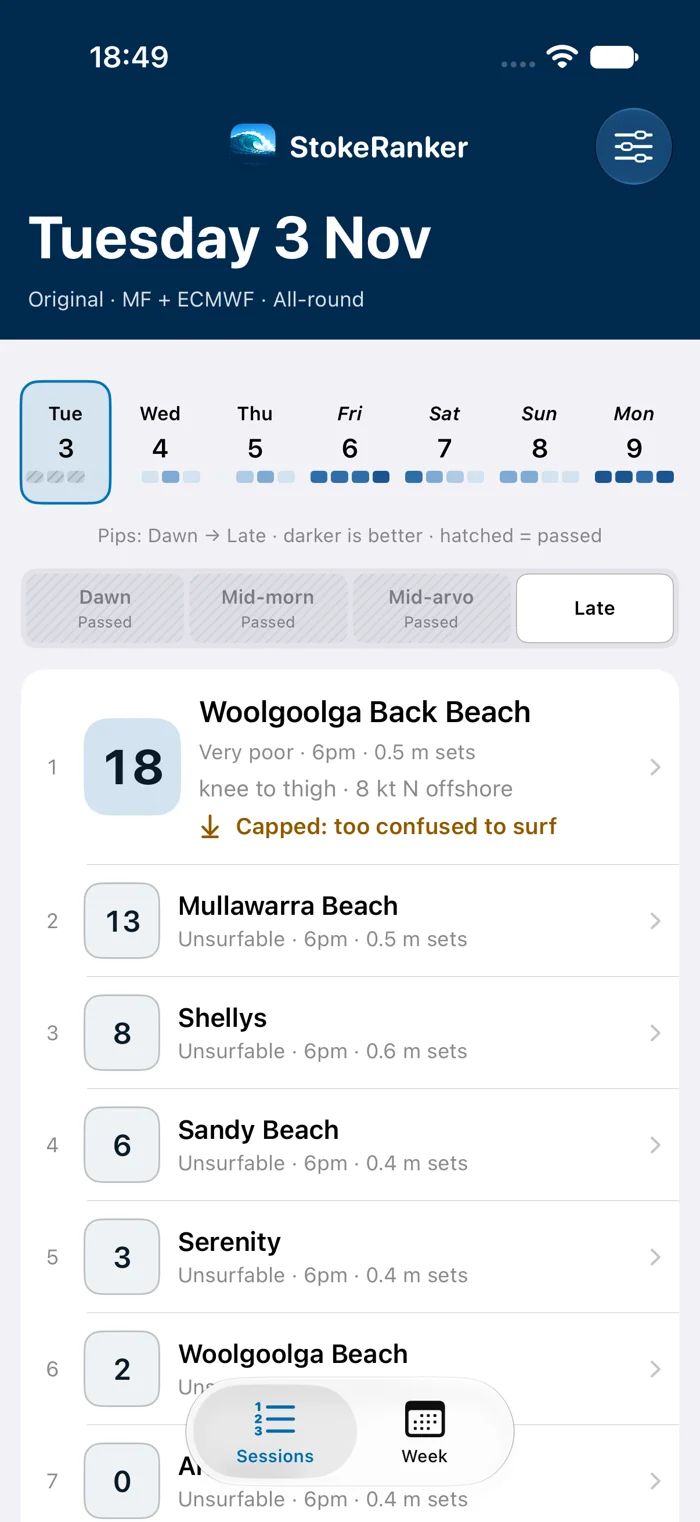
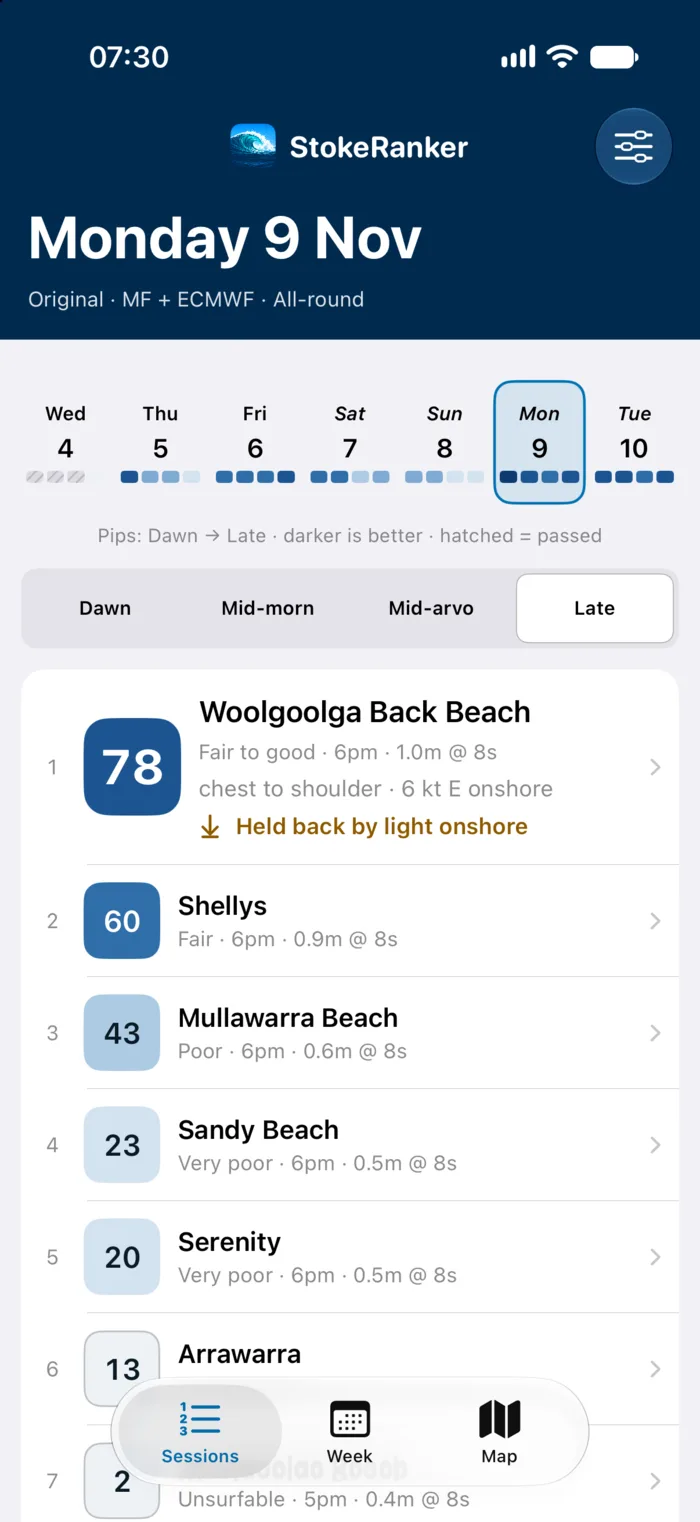
New product shots from a good-surf day; coverage starts north and grows
Replace the hero and iPad shots, which showed "very poor" everywhere, with
Monday 9 Nov's late session (78 / 60 / 43). Add the week board, the
regional map, a zoomed map with wind and swell cards, and a break page.
Say coverage starts with eight northern-beaches breaks and will spread
as the model improves.

diff --git a/assets/css/main.css b/assets/css/main.css
@@ -1,6 +1,6 @@
-:root{--paper:#f6f3ec;--ink:#082e49;--blue:#0072b2;--muted:#4d6574;--line:#cad3d3;--wash:#e0ebed;--white:#fff;--sans:-apple-system,BlinkMacSystemFont,"Segoe UI",sans-serif;--serif:Georgia,"Times New Roman",serif}*{box-sizing:border-box}html{scroll-behavior:auto;scroll-padding-top:2rem}body{margin:0;background:var(--paper);color:var(--ink);font:1.0625rem/1.65 var(--sans);-webkit-font-smoothing:antialiased}img{display:block;max-width:100%;height:auto}figure{margin:0}a{color:var(--blue);text-underline-offset:.2em;text-decoration-thickness:1px}a:hover{text-decoration-thickness:2px}a:focus-visible{outline:3px solid var(--blue);outline-offset:5px;border-radius:2px}h1,h2,h3{line-height:1.12;margin:0 0 1.2rem;font-weight:400;text-wrap:balance}h1,h2{font-family:var(--serif);letter-spacing:-.035em}h2{font-size:clamp(2.1rem,4vw,3.2rem)}h3{font-size:1.45rem;font-weight:650;letter-spacing:-.025em;line-height:1.3}p{margin:0 0 1.3rem}nav{display:flex;align-items:center;gap:1.8rem;flex-wrap:wrap}nav a{display:inline-flex;align-items:center;min-height:44px;color:var(--ink);text-decoration:none;font-size:.94rem;font-weight:550}.wrap{max-width:1208px;padding-inline:24px;margin-inline:auto}.skip{position:absolute;left:1rem;top:-100px;padding:.7rem 1rem;background:var(--ink);color:white;z-index:10}.skip:focus{top:1rem}.site-header{border-bottom:1px solid var(--line)}.header-inner{display:flex;justify-content:space-between;align-items:center;gap:24px;min-height:96px}.brand{display:inline-flex;align-items:center;gap:12px;text-decoration:none;color:var(--ink);font-weight:750;font-size:1.35rem;letter-spacing:-.04em;white-space:nowrap}.brand img{border-radius:10px;width:42px;height:42px}.nav-cta{border-bottom:1px solid var(--ink)}.hero{display:grid;grid-template-columns:1.15fr .85fr;align-items:center;gap:64px;padding-block:64px 58px}.eyebrow{font-size:.75rem;font-weight:750;letter-spacing:.15em;line-height:1.6;margin-bottom:1.5rem}.hero h1{font-size:clamp(3.4rem,6.7vw,5.9rem);max-width:10ch;line-height:.99;margin-bottom:1.8rem}.hero h1 em{color:var(--blue);font-weight:400}.lede{font-size:1.2rem;line-height:1.7;color:var(--muted);max-width:48ch}.actions{display:flex;align-items:center;gap:24px;flex-wrap:wrap;margin:2rem 0 1.3rem}.button{display:inline-flex;justify-content:center;align-items:center;min-height:52px;gap:12px;padding:.85rem 1.35rem;background:var(--blue);border:1px solid transparent;color:white;font-size:.95rem;line-height:1.5;font-weight:650;text-decoration:none;border-radius:4px}.button:hover{background:var(--ink);text-decoration:none}.text-link{font-size:.93rem;font-weight:600}.small-note{font-size:.83rem;line-height:1.7;color:var(--muted)}.hero-visual{position:relative;display:flex;flex-direction:column;align-items:center;justify-content:center;padding:20px 20px 0;isolation:isolate}.hero-visual:before{content:"";position:absolute;inset:45px -10px 60px;background:var(--wash);border-radius:48% 48% 4px 4px;z-index:-1}.hero-visual img{max-height:570px;width:auto;border:6px solid var(--ink);border-radius:30px;box-shadow:0 20px 44px #082e491c;object-fit:contain}.hero-visual figcaption{font-size:.8rem;margin-top:24px;color:var(--muted)}.coastline{display:flex;justify-content:space-between;gap:16px;border-block:1px solid var(--line);padding-block:18px;color:var(--muted);font-size:.8rem;letter-spacing:.04em}.section{padding-block:88px}.section-heading{max-width:720px;margin-bottom:42px}.section-heading>p:not(.eyebrow){max-width:60ch;color:var(--muted)}.feature-grid{display:grid;grid-template-columns:1fr 1fr;gap:36px 72px}.feature{border-top:1px solid var(--line);padding-top:24px}.feature-number{display:block;font-size:.75rem;font-weight:700;letter-spacing:.1em;color:var(--blue);margin-bottom:18px}.feature p{color:var(--muted);max-width:54ch}.showcase{background:var(--wash)}.wide-shot img{width:100%;border-radius:12px;border:1px solid var(--line);box-shadow:0 12px 35px #082e4910}.wide-shot figcaption{max-width:78ch;margin:20px auto 0;text-align:center;color:var(--muted);font-size:.85rem}.story-grid{display:grid;grid-template-columns:1fr 1fr;gap:100px}.story-grid p:not(.eyebrow){color:var(--muted)}.steps{list-style:none;counter-reset:step;margin:0;padding:0}.steps li{counter-increment:step;position:relative;border-top:1px solid var(--line);padding:24px 0 12px 52px}.steps li:before{content:counter(step,decimal-leading-zero);position:absolute;left:0;top:24px;font-size:.8rem;font-weight:700;color:var(--blue)}.steps strong{font-size:1.15rem}.steps p{font-size:.97rem;margin-top:8px}.access-panel{display:grid;grid-template-columns:1.3fr 1fr;gap:72px;align-items:center;padding:56px;background:var(--ink);color:white;border-radius:6px}.access-panel>div:last-child{justify-self:end}.access-panel h2{max-width:14ch}.access-panel p:not(.eyebrow){color:#d8e5ed}.access-panel a{color:white}.access-panel .button{background:#d9ecf8;color:var(--ink);margin-bottom:20px}.access-panel .button:hover{background:white}.access-panel a:focus-visible{outline-color:#56b4e9}.access-panel .small-note{margin-bottom:12px}.site-footer{border-top:1px solid var(--line);padding-block:30px}.footer-inner{display:flex;align-items:center;justify-content:space-between;gap:24px}.footer-inner p{margin:0;font-size:.8rem;color:var(--muted)}.footer-inner nav{gap:24px}.footer-inner nav a{font-size:.8rem}.page-heading{padding-block:72px 40px;max-width:808px}.page-heading h1{font-size:clamp(2.8rem,6vw,4.5rem)}.page-heading .eyebrow{color:var(--blue)}.updated{font-size:.85rem;color:var(--muted)}.prose{max-width:808px;padding-bottom:88px;overflow-wrap:anywhere}.prose h2{font-family:var(--sans);font-weight:650;font-size:1.5rem;letter-spacing:-.025em;line-height:1.35;margin:2.6rem 0 1rem}.prose h3{font-size:1.2rem;margin-top:2rem}.prose p,.prose li{color:#334e60}.prose li{margin-bottom:.5rem}.prose ul,.prose ol{padding-left:1.5rem}.prose a{font-weight:550}.page-cta{margin-top:3rem}
+:root{--paper:#f6f3ec;--ink:#082e49;--blue:#0072b2;--muted:#4d6574;--line:#cad3d3;--wash:#e0ebed;--white:#fff;--sans:-apple-system,BlinkMacSystemFont,"Segoe UI",sans-serif;--serif:Georgia,"Times New Roman",serif}*{box-sizing:border-box}html{scroll-behavior:auto;scroll-padding-top:2rem}body{margin:0;background:var(--paper);color:var(--ink);font:1.0625rem/1.65 var(--sans);-webkit-font-smoothing:antialiased}img{display:block;max-width:100%;height:auto}figure{margin:0}a{color:var(--blue);text-underline-offset:.2em;text-decoration-thickness:1px}a:hover{text-decoration-thickness:2px}a:focus-visible{outline:3px solid var(--blue);outline-offset:5px;border-radius:2px}h1,h2,h3{line-height:1.12;margin:0 0 1.2rem;font-weight:400;text-wrap:balance}h1,h2{font-family:var(--serif);letter-spacing:-.035em}h2{font-size:clamp(2.1rem,4vw,3.2rem)}h3{font-size:1.45rem;font-weight:650;letter-spacing:-.025em;line-height:1.3}p{margin:0 0 1.3rem}nav{display:flex;align-items:center;gap:1.8rem;flex-wrap:wrap}nav a{display:inline-flex;align-items:center;min-height:44px;color:var(--ink);text-decoration:none;font-size:.94rem;font-weight:550}.wrap{max-width:1208px;padding-inline:24px;margin-inline:auto}.skip{position:absolute;left:1rem;top:-100px;padding:.7rem 1rem;background:var(--ink);color:white;z-index:10}.skip:focus{top:1rem}.site-header{border-bottom:1px solid var(--line)}.header-inner{display:flex;justify-content:space-between;align-items:center;gap:24px;min-height:96px}.brand{display:inline-flex;align-items:center;gap:12px;text-decoration:none;color:var(--ink);font-weight:750;font-size:1.35rem;letter-spacing:-.04em;white-space:nowrap}.brand img{border-radius:10px;width:42px;height:42px}.nav-cta{border-bottom:1px solid var(--ink)}.hero{display:grid;grid-template-columns:1.15fr .85fr;align-items:center;gap:64px;padding-block:64px 58px}.eyebrow{font-size:.75rem;font-weight:750;letter-spacing:.15em;line-height:1.6;margin-bottom:1.5rem}.hero h1{font-size:clamp(3.4rem,6.7vw,5.9rem);max-width:10ch;line-height:.99;margin-bottom:1.8rem}.hero h1 em{color:var(--blue);font-weight:400}.lede{font-size:1.2rem;line-height:1.7;color:var(--muted);max-width:48ch}.actions{display:flex;align-items:center;gap:24px;flex-wrap:wrap;margin:2rem 0 1.3rem}.button{display:inline-flex;justify-content:center;align-items:center;min-height:52px;gap:12px;padding:.85rem 1.35rem;background:var(--blue);border:1px solid transparent;color:white;font-size:.95rem;line-height:1.5;font-weight:650;text-decoration:none;border-radius:4px}.button:hover{background:var(--ink);text-decoration:none}.text-link{font-size:.93rem;font-weight:600}.small-note{font-size:.83rem;line-height:1.7;color:var(--muted)}.hero-visual{position:relative;display:flex;flex-direction:column;align-items:center;justify-content:center;padding:20px 20px 0;isolation:isolate}.hero-visual:before{content:"";position:absolute;inset:45px -10px 60px;background:var(--wash);border-radius:48% 48% 4px 4px;z-index:-1}.hero-visual img{max-height:570px;width:auto;border:6px solid var(--ink);border-radius:30px;box-shadow:0 20px 44px #082e491c;object-fit:contain}.hero-visual figcaption{font-size:.8rem;margin-top:24px;color:var(--muted)}.coastline{display:flex;justify-content:space-between;gap:16px;border-block:1px solid var(--line);padding-block:18px;color:var(--muted);font-size:.8rem;letter-spacing:.04em}.section{padding-block:88px}.section-heading{max-width:720px;margin-bottom:42px}.section-heading>p:not(.eyebrow){max-width:60ch;color:var(--muted)}.feature-grid{display:grid;grid-template-columns:1fr 1fr;gap:36px 72px}.feature{border-top:1px solid var(--line);padding-top:24px}.feature-number{display:block;font-size:.75rem;font-weight:700;letter-spacing:.1em;color:var(--blue);margin-bottom:18px}.feature p{color:var(--muted);max-width:54ch}.showcase{background:var(--wash)}.wide-shot img{width:100%;border-radius:12px;border:1px solid var(--line);box-shadow:0 12px 35px #082e4910}.wide-shot figcaption{max-width:78ch;margin:20px auto 0;text-align:center;color:var(--muted);font-size:.85rem}.story-grid{display:grid;grid-template-columns:1fr 1fr;gap:100px}.story-grid p:not(.eyebrow){color:var(--muted)}.steps{list-style:none;counter-reset:step;margin:0;padding:0}.steps li{counter-increment:step;position:relative;border-top:1px solid var(--line);padding:24px 0 12px 52px}.steps li:before{content:counter(step,decimal-leading-zero);position:absolute;left:0;top:24px;font-size:.8rem;font-weight:700;color:var(--blue)}.steps strong{font-size:1.15rem}.steps p{font-size:.97rem;margin-top:8px}.access-panel{display:grid;grid-template-columns:1.3fr 1fr;gap:72px;align-items:center;padding:56px;background:var(--ink);color:white;border-radius:6px}.access-panel>div:last-child{justify-self:end}.access-panel h2{max-width:14ch}.access-panel p:not(.eyebrow){color:#d8e5ed}.access-panel a{color:white}.access-panel .button{background:#d9ecf8;color:var(--ink);margin-bottom:20px}.access-panel .button:hover{background:white}.access-panel a:focus-visible{outline-color:#56b4e9}.access-panel .small-note{margin-bottom:12px}.two-up{display:grid;grid-template-columns:.36fr 1fr;gap:48px;align-items:center}.two-up figcaption{margin-top:16px;text-align:center;color:var(--muted);font-size:.85rem}.phone-shot img{margin:auto;border:6px solid var(--ink);border-radius:30px;box-shadow:0 20px 44px #082e491c}.site-footer{border-top:1px solid var(--line);padding-block:30px}.footer-inner{display:flex;align-items:center;justify-content:space-between;gap:24px}.footer-inner p{margin:0;font-size:.8rem;color:var(--muted)}.footer-inner nav{gap:24px}.footer-inner nav a{font-size:.8rem}.page-heading{padding-block:72px 40px;max-width:808px}.page-heading h1{font-size:clamp(2.8rem,6vw,4.5rem)}.page-heading .eyebrow{color:var(--blue)}.updated{font-size:.85rem;color:var(--muted)}.prose{max-width:808px;padding-bottom:88px;overflow-wrap:anywhere}.prose h2{font-family:var(--sans);font-weight:650;font-size:1.5rem;letter-spacing:-.025em;line-height:1.35;margin:2.6rem 0 1rem}.prose h3{font-size:1.2rem;margin-top:2rem}.prose p,.prose li{color:#334e60}.prose li{margin-bottom:.5rem}.prose ul,.prose ol{padding-left:1.5rem}.prose a{font-weight:550}.page-cta{margin-top:3rem}
 @media(min-width:1400px){.hero{padding-block:80px}.hero-visual img{max-height:610px}}
 @media(max-width:900px){.hero{gap:32px}.hero-visual{padding-inline:10px}.story-grid{gap:48px}.access-panel{gap:32px;padding:36px}.header-inner{gap:16px}nav{gap:20px}.feature-grid{gap:32px}}
-@media(max-width:760px){.header-inner{flex-wrap:wrap;padding-block:18px;gap:12px}.header-inner nav{width:100%;justify-content:space-between;gap:8px}.hero{grid-template-columns:1fr;gap:30px;padding-block:44px}.hero h1{font-size:clamp(3.4rem,11vw,5rem);max-width:11ch}.hero-copy{max-width:560px}.hero-visual{padding-top:24px;max-width:420px;width:100%;margin:auto}.hero-visual img{max-height:480px;max-width:90%;border-width:5px}.hero-visual:before{inset:45px 0 60px}.coastline{flex-wrap:wrap;justify-content:flex-start;gap:8px 24px;font-size:.72rem}.coastline span:first-child{width:100%}.section{padding-block:56px}.section-heading{margin-bottom:28px}.feature-grid,.story-grid,.access-panel{grid-template-columns:1fr;gap:28px}.feature{padding-top:20px}.access-panel{padding:32px 24px}.access-panel>div:last-child{justify-self:start}.access-panel h2{max-width:17ch}.footer-inner{align-items:flex-start;flex-direction:column;gap:12px}.page-heading{padding-top:44px}.page-heading .eyebrow{overflow-wrap:anywhere}.prose{padding-bottom:56px}}
+@media(max-width:760px){.two-up{grid-template-columns:1fr;gap:36px}.phone-shot img{max-width:300px}.header-inner{flex-wrap:wrap;padding-block:18px;gap:12px}.header-inner nav{width:100%;justify-content:space-between;gap:8px}.hero{grid-template-columns:1fr;gap:30px;padding-block:44px}.hero h1{font-size:clamp(3.4rem,11vw,5rem);max-width:11ch}.hero-copy{max-width:560px}.hero-visual{padding-top:24px;max-width:420px;width:100%;margin:auto}.hero-visual img{max-height:480px;max-width:90%;border-width:5px}.hero-visual:before{inset:45px 0 60px}.coastline{flex-wrap:wrap;justify-content:flex-start;gap:8px 24px;font-size:.72rem}.coastline span:first-child{width:100%}.section{padding-block:56px}.section-heading{margin-bottom:28px}.feature-grid,.story-grid,.access-panel{grid-template-columns:1fr;gap:28px}.feature{padding-top:20px}.access-panel{padding:32px 24px}.access-panel>div:last-child{justify-self:start}.access-panel h2{max-width:17ch}.footer-inner{align-items:flex-start;flex-direction:column;gap:12px}.page-heading{padding-top:44px}.page-heading .eyebrow{overflow-wrap:anywhere}.prose{padding-bottom:56px}}
 @media(max-width:400px){.wrap{padding-inline:20px}.brand{font-size:1.2rem}.header-inner nav a{font-size:.81rem}.hero h1{font-size:3.35rem}.actions{gap:20px}.lede{font-size:1.08rem}.access-panel{padding:28px 20px}.footer-inner nav{gap:18px}}
 @media(prefers-reduced-motion:reduce){html{scroll-behavior:auto}}

diff --git a/layouts/home.html b/layouts/home.html
@@ -1,8 +1,10 @@
 {{ define "main" }}
-<section class="hero wrap"><div class="hero-copy"><p class="eyebrow">FIND YOUR NEXT SURF.</p><h1>Same swell. <em>Different beach.</em></h1><p class="lede">StokeRanker ranks the breaks on the Coffs Coast’s northern beaches against each other for the session you can actually surf, and shows why each one scored the way it did.</p><div class="actions">{{ partial "cta.html" "Ask Rob for access ↗" }}<a class="text-link" href="#features">Take a closer look ↓</a></div><p class="small-note">Free. For 100 years.<br>iPhone, iPad and the web. No ads, no subscription.</p></div><figure class="hero-visual"><img src="{{ "images/iphone-sessions.webp" | relURL }}" alt="StokeRanker iPhone Sessions view: choose a day and session, then compare ranked local breaks with wave size and wind conditions." width="700" height="1522" fetchpriority="high"><figcaption>The local lineup, at a glance.</figcaption></figure></section>
-<div class="wrap coastline"><span>NORTHERN BEACHES, COFFS COAST</span><span>8 breaks, Arrawarra → Emerald</span><span>Free for 100 years</span></div>
+<section class="hero wrap"><div class="hero-copy"><p class="eyebrow">FIND YOUR NEXT SURF.</p><h1>Same swell. <em>Different beach.</em></h1><p class="lede">StokeRanker ranks the breaks on the Coffs Coast’s northern beaches against each other for the session you can actually surf, and shows why each one scored the way it did.</p><div class="actions">{{ partial "cta.html" "Ask Rob for access ↗" }}<a class="text-link" href="#features">Take a closer look ↓</a></div><p class="small-note">Free. For 100 years.<br>iPhone, iPad and the web. No ads, no subscription.</p></div><figure class="hero-visual"><img src="{{ "images/iphone-sessions.webp" | relURL }}" alt="StokeRanker on iPhone: Monday’s late session ranks Woolgoolga Back Beach first at 78, fair to good, then Shellys at 60 and Mullawarra Beach at 43." width="700" height="1522" fetchpriority="high"><figcaption>The local lineup, at a glance.</figcaption></figure></section>
+<div class="wrap coastline"><span>NORTHERN BEACHES, COFFS COAST</span><span>8 breaks to start, Arrawarra → Emerald</span><span>Free for 100 years</span></div>
 <section id="features" class="section wrap"><div class="section-heading"><p class="eyebrow">A LITTLE LOCAL KNOWLEDGE</p><h2>More than an offshore swell number.</h2><p>A headland, the tide and the angle of the swell can change the story. StokeRanker models those differences for each break.</p></div><div class="feature-grid"><article class="feature"><span class="feature-number">01 / COMPARE</span><h3>Pick a session, see the options.</h3><p>Compare local breaks for dawn, mid-morning, mid-arvo or late arvo. Check estimated wave size, wind and the best forecast hour for each session.</p></article><article class="feature"><span class="feature-number">02 / UNDERSTAND</span><h3>Every score has its reasons.</h3><p>Each session gets a score out of 100 and a plain word, from unsurfable to good. See how swell, wind, tide and local shelter add up to it, and switch surfer profile (All-round, Mellow or Performance) to see what suits your kind of surfing.</p></article><article class="feature"><span class="feature-number">03 / PLAN</span><h3>Find a window in the week.</h3><p>Look across the forecast week, then dig into the hours at a break. Switch between ECMWF and GFS forecasts, and between the Original and Experimental scoring models, when you want a second opinion.</p></article><article class="feature"><span class="feature-number">04 / EXPLORE</span><h3>Put the forecast on the coast.</h3><p>Browse breaks on the regional map, then see where along a beach the waves are expected to break, worked out from local seabed and coastline data.</p></article></div></section>
-<section class="section showcase"><div class="wrap"><div class="section-heading"><p class="eyebrow">ROOM TO EXPLORE</p><h2>The bigger picture, on iPad.</h2><p>Browse the coast and compare local conditions without losing your place.</p></div><figure class="wide-shot"><img src="{{ "images/ipad-coast.webp" | relURL }}" alt="StokeRanker on iPad, showing the Coffs Coast regional map and break forecast cards." width="1600" height="1112" loading="lazy"><figcaption>From the regional map to the detail at a single break. Screenshots show example forecasts, not current conditions.</figcaption></figure></div></section>
-<section class="section wrap"><div class="story-grid"><div><p class="eyebrow">BUILT HERE. STILL LEARNING.</p><h2>A forecast you can question.</h2><p>StokeRanker combines public marine and weather forecasts with local break knowledge, tide modelling, seabed data and headland shelter.</p><p>It’s an independent project by Rob McLeay, checked since October 2026 against rated sessions logged on the beach. Scores are estimates, and the models are still developing. Your eyes on the beach matter.</p></div><ol class="steps"><li><strong>Choose your time.</strong><p>Start with the session you can actually surf.</p></li><li><strong>Compare the coast.</strong><p>Look at the rankings, wave size, wind and the explanation behind each score.</p></li><li><strong>Tell Rob which forecast was right.</strong><p>Use the feedback button on a forecast, or email the break, time and what you saw.</p></li></ol></div></section>
+<section class="section showcase"><div class="wrap"><div class="section-heading"><p class="eyebrow">THE WEEK AT A GLANCE</p><h2>Every break, every session, all week.</h2><p>Four sessions a day for seven days, darker where it’s better. Spot the window, then tap in for the detail.</p></div><figure class="wide-shot"><img src="{{ "images/ipad-week.webp" | relURL }}" alt="StokeRanker week board on iPad: a row per break and a cell per session for seven days, shaded darker where the score is higher. Woolgoolga Back Beach, Mullawarra and Shellys darken towards Monday and Tuesday." width="1600" height="1068" loading="lazy"><figcaption>Screenshots show an example forecast, not current conditions.</figcaption></figure></div></section>
+<section class="section wrap"><div class="section-heading"><p class="eyebrow">ON THE MAP</p><h2>From the whole coast to a single beach.</h2><p>See every break’s score along the coast, then zoom in for the wind and swell at the one you’re eyeing off.</p></div><div class="two-up"><figure class="phone-shot"><img src="{{ "images/iphone-map.webp" | relURL }}" alt="StokeRanker regional map on iPhone: score pins along the coast from Arrawarra to Emerald, with Woolgoolga Back Beach highlighted at 78." width="700" height="1522" loading="lazy"><figcaption>The coast for one session.</figcaption></figure><figure class="wide-shot"><img src="{{ "images/ipad-map-zoom.webp" | relURL }}" alt="StokeRanker map zoomed in to Woolgoolga on iPad: satellite view with cards for Woolgoolga Back Beach, 78, and Woolgoolga Beach, 2, each showing wind and swell direction dials." width="1600" height="1068" loading="lazy"><figcaption>Zoomed in: wind and swell at each break.</figcaption></figure></div></section>
+<section class="section showcase"><div class="wrap"><div class="section-heading"><p class="eyebrow">EVERY SCORE HAS ITS REASONS</p><h2>Open a break, see the working.</h2><p>Wave height at the take-off, wind, tide and every swell in the water, plus what’s holding the score back and the best session each day.</p></div><figure class="wide-shot"><img src="{{ "images/ipad-break.webp" | relURL }}" alt="StokeRanker break page on iPad for Woolgoolga Back Beach: score 78, fair to good, with 1.0 m sets, 6 knot easterly, 0.8 m rising tide, the swells in the water and an hourly chart for the day." width="1600" height="1068" loading="lazy"></figure></div></section>
+<section class="section wrap"><div class="story-grid"><div><p class="eyebrow">BUILT HERE. STILL LEARNING.</p><h2>A forecast you can question.</h2><p>StokeRanker combines public marine and weather forecasts with local break knowledge, tide modelling, seabed data and headland shelter.</p><p>It starts with eight breaks on the northern beaches, where every forecast can be checked against the surf. More of the coast will follow as the model improves.</p><p>It’s an independent project by Rob McLeay, checked since October 2026 against rated sessions logged on the beach. Scores are estimates, and the models are still developing. Your eyes on the beach matter.</p></div><ol class="steps"><li><strong>Choose your time.</strong><p>Start with the session you can actually surf.</p></li><li><strong>Compare the coast.</strong><p>Look at the rankings, wave size, wind and the explanation behind each score.</p></li><li><strong>Tell Rob which forecast was right.</strong><p>Use the feedback button on a forecast, or email the break, time and what you saw.</p></li></ol></div></section>
 <section id="access" class="section wrap"><div class="access-panel"><div><p class="eyebrow">COME TRY IT</p><h2>Help pick the forecast that gets it right.</h2><p>The trial runs two scoring models, Original and Experimental, on two forecast sources, ECMWF and GFS. Check them before you paddle out, then tell Rob which one matched the beach.</p><p>It’s free. For 100 years. Email Rob for the TestFlight trial or a web app link, and say which breaks you surf.</p></div><div>{{ partial "cta.html" "Request early access ↗" }}<p class="small-note">No ads, no subscription.<br>iPhone &amp; iPad: iOS/iPadOS 26 or later.<br>Web app: a modern browser.</p><a href="mailto:{{ site.Params.contact }}">{{ site.Params.contact }}</a></div></div></section>
 {{ end }}

diff --git a/content/help.md b/content/help.md
@@ -17,7 +17,7 @@ The native app is built for iPhone and iPad running iOS or iPadOS 26 or later. I
 
 ## Where does it cover?
 
-Eight breaks on the Coffs Coast’s northern beaches: Arrawarra, Mullawarra, Woolgoolga Back Beach, Woolgoolga Beach, Serenity, Sandy Beach, Shellys and Emerald Beach. Coffs Harbour’s own beaches aren’t covered yet. Each break is modelled on its own, rather than one forecast for the whole coastline.
+Eight breaks on the Coffs Coast’s northern beaches: Arrawarra, Mullawarra, Woolgoolga Back Beach, Woolgoolga Beach, Serenity, Sandy Beach, Shellys and Emerald Beach. That’s where it starts, because every forecast there can be checked against the surf. Coffs Harbour’s own beaches and more of the coast will be added as the model improves. Each break is modelled on its own, rather than one forecast for the whole coastline.
 
 ## What do the scores mean?
 
